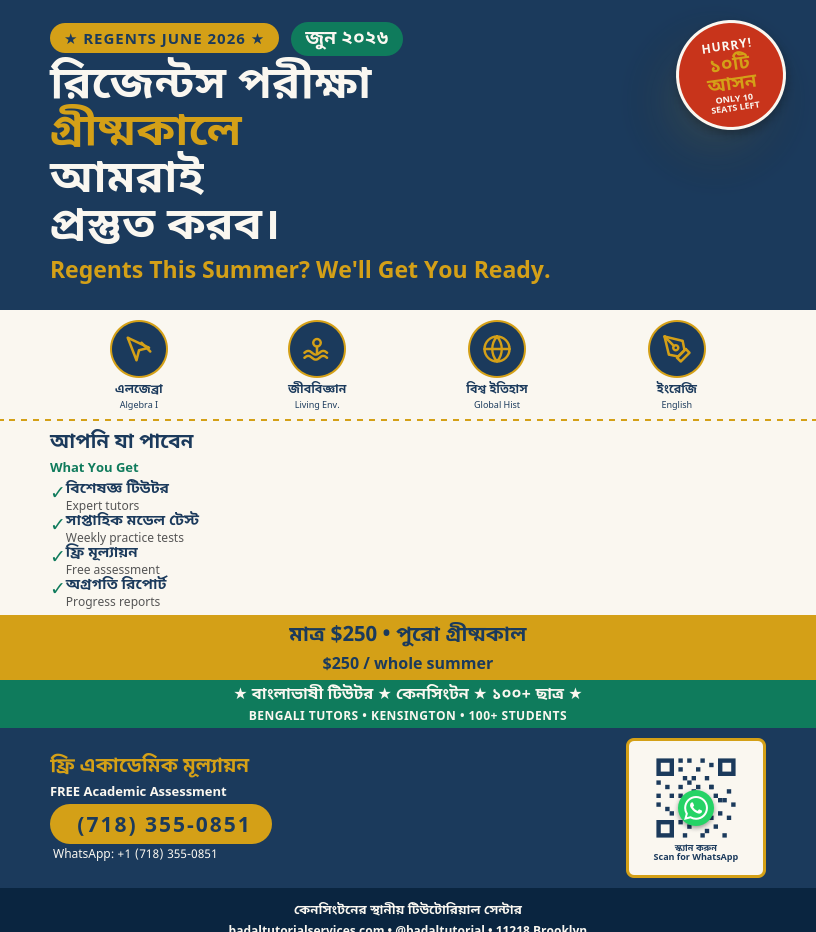
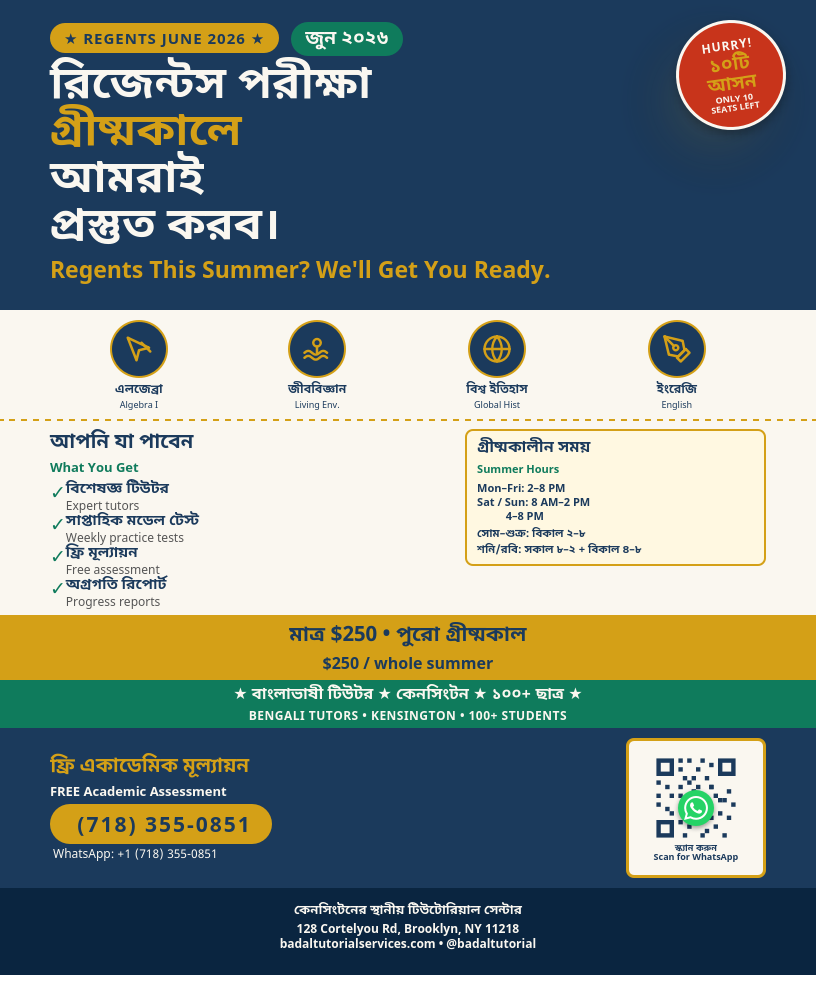
Add real address (128 Cortelyou Rd) + summer hours card to all 3

diff --git a/flyers/shsat-bn.html b/flyers/shsat-bn.html
@@ -17,7 +17,7 @@
   .hero { background: #1B3A5C; color: #FAF7F0; padding: 22px 50px 24px; position: relative; overflow: hidden; }
   .hero::before { content: ''; position: absolute; top: 0; right: 0; width: 200px; height: 200px; background: radial-gradient(circle, rgba(212,160,23,0.18) 0%, transparent 70%); }
 
-  .urgent-badge { position: absolute; top: 20px; right: 30px; width: 110px; height: 110px; background: #C8341B; color: #FAF7F0; border-radius: 50%; display: flex; flex-direction: column; align-items: center; justify-content: center; text-align: center; font-family: 'BodySans', sans-serif; font-weight: 900; line-height: 1.1; box-shadow: 0 4px 12px rgba(0,0,0,0.3); border: 3px solid #FAF7F0; z-index: 10; transform: rotate(-8deg); }
+  .urgent-badge { position: absolute; top: 30px; right: 30px; width: 110px; height: 110px; background: #C8341B; color: #FAF7F0; border-radius: 50%; display: flex; flex-direction: column; align-items: center; justify-content: center; text-align: center; font-family: 'BodySans', sans-serif; font-weight: 900; line-height: 1.1; box-shadow: 0 4px 12px rgba(0,0,0,0.3); border: 3px solid #FAF7F0; z-index: 10; transform: rotate(-8deg); }
   .urgent-badge .urgent-top { font-size: 9pt; letter-spacing: 1px; }
   .urgent-badge .urgent-mid { font-size: 14pt; color: #D4A017; margin: 1px 0; }
   .urgent-badge .urgent-bot { font-size: 7pt; font-weight: 700; }
@@ -35,7 +35,12 @@
   .illust-label { font-family: 'BnFont', sans-serif; font-size: 9pt; font-weight: 700; color: #1B3A5C; }
   .illust-label-en { font-family: 'BodySans', sans-serif; font-size: 7pt; color: #1B3A5C; }
 
-  .body-bn { padding: 10px 50px 8px; background: #FAF7F0; }
+  .body-bn { padding: 10px 50px 8px; background: #FAF7F0; display: flex; gap: 22px; align-items: flex-start; }
+  .body-left { flex: 1.2; }
+  .hours-card { flex: 0.8; background: #FFF8E1; border: 2px solid #D4A017; border-radius: 8px; padding: 6px 10px; }
+  .hours-title { font-family: 'BnFont', sans-serif; font-size: 12pt; font-weight: 700; color: #1B3A5C; margin-bottom: 2px; }
+  .hours-title-en { font-family: 'BodySans', sans-serif; font-size: 8pt; font-weight: 700; color: #0F7B5C; margin-bottom: 4px; }
+  .hours-row { font-family: 'BodySans', sans-serif; font-size: 8pt; color: #1B3A5C; line-height: 1.35; font-weight: 700; }
   .body-title { font-family: 'BnFont', sans-serif; font-size: 15pt; font-weight: 700; color: #1B3A5C; margin-bottom: 1px; }
   .body-title-en { font-family: 'BodySans', sans-serif; font-size: 10pt; font-weight: 700; color: #0F7B5C; margin-bottom: 5px; }
   .body-grid { display: grid; grid-template-columns: 1fr 1fr; gap: 3px 22px; }
@@ -136,7 +141,8 @@
   </div>
 
   <div class="body-bn">
-    <div class="body-title">আপনি যা পাবেন</div>
+    <div class="body-left">
+      <div class="body-title">আপনি যা পাবেন</div>
     <div class="body-title-en">What You Get</div>
     <div class="body-grid">
       <div class="body-row">
@@ -167,6 +173,14 @@
           <div class="body-text-en">Parent progress reports</div>
         </div>
       </div>
+      </div>
+    </div>
+    <div class="hours-card">
+      <div class="hours-title">গ্রীষ্মকালীন সময়</div>
+      <div class="hours-title-en">Summer Hours</div>
+      <div class="hours-row">Mon–Fri: 2–8 PM</div>
+      <div class="hours-row">Sat / Sun: 8 AM–2 PM</div>
+      <div class="hours-row">&nbsp;&nbsp;&nbsp;&nbsp;&nbsp;&nbsp;&nbsp;&nbsp;&nbsp;&nbsp;4–8 PM</div>
     </div>
   </div>
 
@@ -248,7 +262,7 @@
 
   <div class="footer">
     <div class="footer-bn">কেনসিংটনের স্থানীয় টিউটোরিয়াল সেন্টার</div>
-    <div class="footer-en">badaltutorialservices.com • @badaltutorial • 11218 Brooklyn</div>
+    <div class="footer-en">128 Cortelyou Rd, Brooklyn, NY 11218</div><div class="footer-en">badaltutorialservices.com • @badaltutorial</div>
   </div>
 </div>
 

diff --git a/flyers/regents-bn.html b/flyers/regents-bn.html
@@ -35,7 +35,13 @@
   .illust-label { font-family: 'BnFont', sans-serif; font-size: 9pt; font-weight: 700; color: #1B3A5C; }
   .illust-label-en { font-family: 'BodySans', sans-serif; font-size: 7pt; color: #1B3A5C; }
 
-  .body-bn { padding: 8px 50px 6px; background: #FAF7F0; }
+  .body-bn { padding: 8px 50px 6px; background: #FAF7F0; display: flex; gap: 22px; align-items: flex-start; }
+  .body-left { flex: 1.2; }
+  .hours-card { flex: 0.8; background: #FFF8E1; border: 2px solid #D4A017; border-radius: 8px; padding: 6px 10px; }
+  .hours-title { font-family: 'BnFont', sans-serif; font-size: 12pt; font-weight: 700; color: #1B3A5C; margin-bottom: 2px; }
+  .hours-title-en { font-family: 'BodySans', sans-serif; font-size: 8pt; font-weight: 700; color: #0F7B5C; margin-bottom: 4px; }
+  .hours-row { font-family: 'BodySans', sans-serif; font-size: 8pt; color: #1B3A5C; line-height: 1.35; font-weight: 700; }
+  .hours-row-bn { font-family: 'BnFont', sans-serif; font-weight: 700; color: #1B3A5C; }
   .body-title { font-family: 'BnFont', sans-serif; font-size: 15pt; font-weight: 700; color: #1B3A5C; margin-bottom: 1px; }
   .body-title-en { font-family: 'BodySans', sans-serif; font-size: 10pt; font-weight: 700; color: #0F7B5C; margin-bottom: 5px; }
   .body-grid { display: grid; grid-template-columns: 1fr 1fr; gap: 3px 22px; }
@@ -66,7 +72,8 @@
   .qr-label { font-family: 'BnFont', sans-serif; font-size: 7pt; font-weight: 700; color: #1B3A5C; margin-top: 2px; line-height: 1.1; }
 
   .footer { background: #0a2540; color: #FAF7F0; padding: 14px 50px 24px; text-align: center; }
-  .footer-bn { font-family: 'BnFont', sans-serif; font-size: 10pt; font-weight: 700; margin-bottom: 2px; }
+  .footer-bn { font-family: 'BnFont', sans-serif; font-size: 10pt; font-weight: 700; margin-bottom: 1px; }
+  .footer-en { font-family: 'BodySans', sans-serif; font-size: 9pt; font-weight: 700; line-height: 1.3; }
   .footer-en { font-family: 'BodySans', sans-serif; font-size: 9pt; font-weight: 700; }
 </style>
 </head>
@@ -136,9 +143,10 @@
   </div>
 
   <div class="body-bn">
-    <div class="body-title">আপনি যা পাবেন</div>
-    <div class="body-title-en">What You Get</div>
-    <div class="body-grid">
+    <div class="body-left">
+      <div class="body-title">আপনি যা পাবেন</div>
+      <div class="body-title-en">What You Get</div>
+      <div class="body-grid">
       <div class="body-row">
         <span class="check">✓</span>
         <div>
@@ -167,6 +175,16 @@
           <div class="body-text-en">Progress reports</div>
         </div>
       </div>
+      </div>
+    </div>
+    <div class="hours-card">
+      <div class="hours-title">গ্রীষ্মকালীন সময়</div>
+      <div class="hours-title-en">Summer Hours</div>
+      <div class="hours-row">Mon–Fri: 2–8 PM</div>
+      <div class="hours-row">Sat / Sun: 8 AM–2 PM</div>
+      <div class="hours-row">&nbsp;&nbsp;&nbsp;&nbsp;&nbsp;&nbsp;&nbsp;&nbsp;&nbsp;&nbsp;4–8 PM</div>
+      <div class="hours-row-bn" style="font-size:8pt; margin-top:3px;">সোম–শুক্র: বিকাল ২–৮</div>
+      <div class="hours-row-bn" style="font-size:8pt;">শনি/রবি: সকাল ৮–২ + বিকাল ৪–৮</div>
     </div>
   </div>
 
@@ -250,7 +268,7 @@
 
   <div class="footer">
     <div class="footer-bn">কেনসিংটনের স্থানীয় টিউটোরিয়াল সেন্টার</div>
-    <div class="footer-en">badaltutorialservices.com • @badaltutorial • 11218 Brooklyn</div>
+    <div class="footer-en">128 Cortelyou Rd, Brooklyn, NY 11218</div><div class="footer-en">badaltutorialservices.com • @badaltutorial</div>
   </div>
 </div>
 

diff --git a/flyers/esl-bn.html b/flyers/esl-bn.html
@@ -36,7 +36,12 @@
   .illust-label { font-family: 'BnFont', sans-serif; font-size: 9pt; font-weight: 700; color: #1B3A5C; }
   .illust-label-en { font-family: 'BodySans', sans-serif; font-size: 7pt; color: #1B3A5C; }
 
-  .body-bn { padding: 4px 50px 4px; background: #FAF7F0; }
+  .body-bn { padding: 4px 50px 4px; background: #FAF7F0; display: flex; gap: 22px; align-items: flex-start; }
+  .body-left { flex: 1.2; }
+  .hours-card { flex: 0.8; background: #FFF8E1; border: 2px solid #D4A017; border-radius: 8px; padding: 6px 10px; }
+  .hours-title { font-family: 'BnFont', sans-serif; font-size: 12pt; font-weight: 700; color: #1B3A5C; margin-bottom: 2px; }
+  .hours-title-en { font-family: 'BodySans', sans-serif; font-size: 8pt; font-weight: 700; color: #0F7B5C; margin-bottom: 4px; }
+  .hours-row { font-family: 'BodySans', sans-serif; font-size: 8pt; color: #1B3A5C; line-height: 1.35; font-weight: 700; }
   .body-title { font-family: 'BnFont', sans-serif; font-size: 15pt; font-weight: 700; color: #1B3A5C; margin-bottom: 1px; }
   .body-title-en { font-family: 'BodySans', sans-serif; font-size: 10pt; font-weight: 700; color: #0F7B5C; margin-bottom: 5px; }
   .body-grid { display: grid; grid-template-columns: 1fr 1fr; gap: 3px 22px; }
@@ -134,7 +139,8 @@
   </div>
 
   <div class="body-bn">
-    <div class="body-title">৩টি ইএসএল ট্র্যাক</div>
+    <div class="body-left">
+      <div class="body-title">৩টি ইএসএল ট্র্যাক</div>
     <div class="body-title-en">3 ESL Tracks</div>
     <div class="body-grid">
       <div class="body-row">
@@ -165,6 +171,14 @@
           <div class="body-text-en">Bilingual instruction</div>
         </div>
       </div>
+      </div>
+    </div>
+    <div class="hours-card">
+      <div class="hours-title">গ্রীষ্মকালীন সময়</div>
+      <div class="hours-title-en">Summer Hours</div>
+      <div class="hours-row">Mon–Fri: 2–8 PM</div>
+      <div class="hours-row">Sat / Sun: 8 AM–2 PM</div>
+      <div class="hours-row">&nbsp;&nbsp;&nbsp;&nbsp;&nbsp;&nbsp;&nbsp;&nbsp;&nbsp;&nbsp;4–8 PM</div>
     </div>
   </div>
 
@@ -248,7 +262,7 @@
 
   <div class="footer">
     <div class="footer-bn">কেনসিংটনের স্থানীয় টিউটোরিয়াল সেন্টার</div>
-    <div class="footer-en">badaltutorialservices.com • @badaltutorial • 11218 Brooklyn</div>
+    <div class="footer-en">128 Cortelyou Rd, Brooklyn, NY 11218</div><div class="footer-en">badaltutorialservices.com • @badaltutorial</div>
   </div>
 </div>
 
